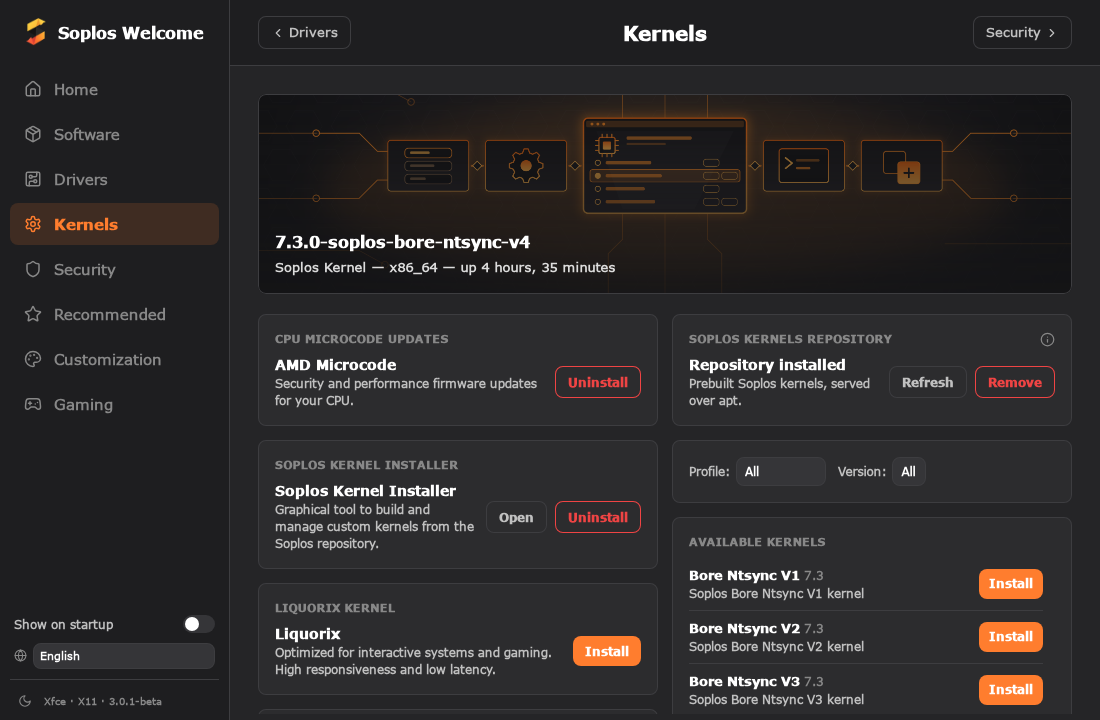
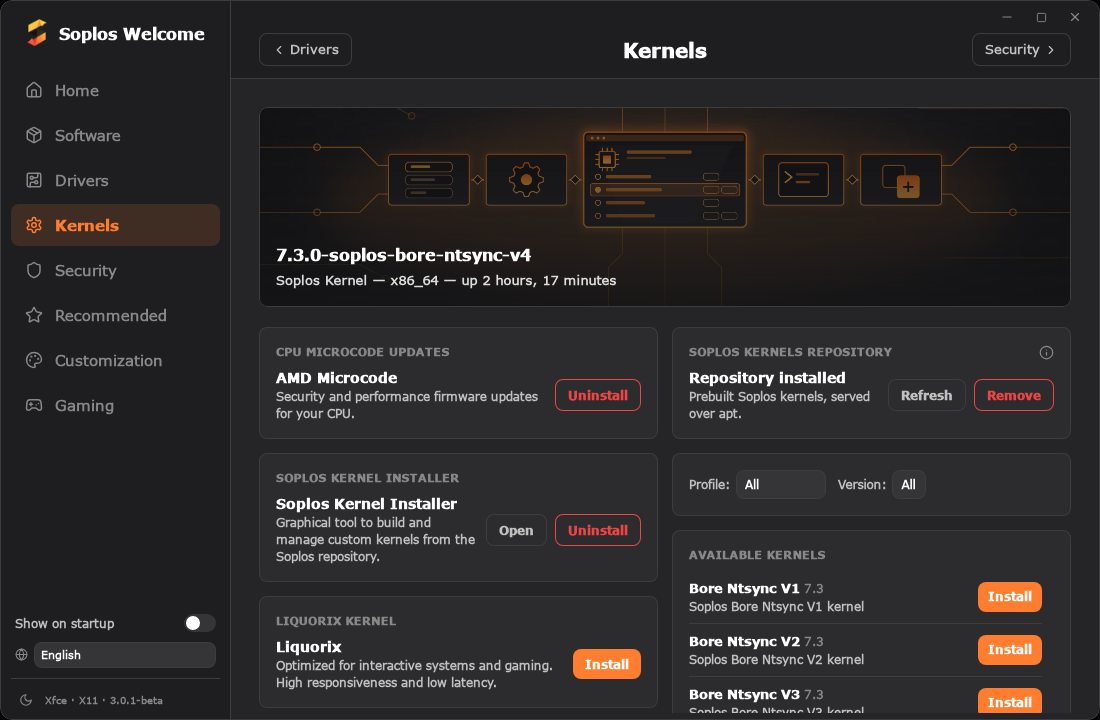
Frameless card window, new screenshots and bump to 3.0.1-9-beta

diff --git a/src/App.svelte b/src/App.svelte
@@ -7,6 +7,7 @@
   import { isRunning, progressFraction } from "./lib/progress";
   import Sidebar from "./components/Sidebar.svelte";
   import Header from "./components/Header.svelte";
+  import WindowControls from "./components/WindowControls.svelte";
   import AboutDialog from "./components/AboutDialog.svelte";
   import Home from "./views/Home.svelte";
   import Software from "./views/Software.svelte";
@@ -55,13 +56,34 @@
   let appVersion = "";
   let envInfo: { desktopEnvironment: string; displayProtocol: string } | null = null;
 
-  onMount(async () => {
-    try {
-      appVersion = await getVersion();
-    } catch { appVersion = ""; }
-    try {
-      envInfo = await api.invoke("get_environment_info");
-    } catch { envInfo = null; }
+  // With `decorations` off in tauri.conf.json (and `transparent` on) the system
+  // draws no frame: the window is one card with rounded corners and the buttons
+  // of the window are in the sidebar. With `decorations` on, nothing of this
+  // shows, so that setting is the only switch between the two.
+  let frameless = false;
+  let maximized = false;
+
+  onMount(() => {
+    let unlisten: (() => void) | undefined;
+    (async () => {
+      try {
+        appVersion = await getVersion();
+      } catch { appVersion = ""; }
+      try {
+        envInfo = await api.invoke("get_environment_info");
+      } catch { envInfo = null; }
+      try {
+        const win = getCurrentWindow();
+        frameless = !(await win.isDecorated());
+        if (frameless) {
+          maximized = await win.isMaximized();
+          unlisten = await win.onResized(async () => {
+            maximized = await win.isMaximized();
+          });
+        }
+      } catch { frameless = false; }
+    })();
+    return () => unlisten?.();
   });
 
   function select(id: string) {
@@ -104,12 +126,16 @@
 
 <svelte:window on:keydown={handleKeydown} />
 
-<div class="flex h-screen overflow-hidden">
+<div class="relative flex h-screen overflow-hidden bg-dark {frameless && !maximized ? 'window-card' : ''}">
   <Sidebar {tabs} {active} onSelect={select} {appVersion} {envInfo} />
+
+  {#if frameless}
+    <div class="absolute right-2 top-[5px] z-40"><WindowControls {maximized} /></div>
+  {/if}
 
   <div class="flex-1 flex flex-col overflow-hidden min-w-0">
     {#if active !== "home"}
-      <Header title={activeTab.title}>
+      <Header title={activeTab.title} {frameless}>
         <svelte:fragment slot="back">
           {#if prevTab}
             <button
@@ -142,7 +168,12 @@
         </svelte:fragment>
       </Header>
     {/if}
-    <div id="main-scroll" class="content-scroll flex-1 overflow-y-auto p-7">
+    <!-- Home has no header: the strip over it (its old top padding) holds the
+         window buttons and moves the window. -->
+    {#if frameless && active === "home"}
+      <div class="h-7 shrink-0" data-tauri-drag-region></div>
+    {/if}
+    <div id="main-scroll" class="content-scroll flex-1 overflow-y-auto p-7 {frameless && active === 'home' ? 'pt-0' : ''}">
       <svelte:component this={ActiveView} />
     </div>
 
@@ -154,11 +185,11 @@
       {/if}
     </div>
   </div>
-</div>
 
-{#if aboutOpen}
-  <AboutDialog onClose={() => (aboutOpen = false)} />
-{/if}
+  {#if aboutOpen}
+    <AboutDialog onClose={() => (aboutOpen = false)} />
+  {/if}
+</div>
 
 <style>
   .progress-fill {

diff --git a/src/components/WindowControls.svelte b/src/components/WindowControls.svelte
@@ -1,0 +1,41 @@
+<script lang="ts">
+  import { getCurrentWindow } from "@tauri-apps/api/window";
+  import { _ } from "svelte-i18n";
+  import { Minus, Square, Copy, X } from "lucide-svelte";
+
+  // The buttons of the window when the system draws no frame: minimize, maximize
+  // or restore, and close, at the top right of the card. They are plain icons;
+  // the accent of the theme shows under the pointer, and red only on close.
+  export let maximized = false;
+
+  const win = getCurrentWindow();
+
+  const button = "grid h-[22px] w-8 place-items-center rounded text-text-muted transition-colors";
+</script>
+
+<div class="flex items-center gap-0.5">
+  <button
+    class="{button} hover:bg-primary/15 hover:text-primary"
+    title={$_("app.window.minimize")}
+    aria-label={$_("app.window.minimize")}
+    on:click={() => win.minimize()}
+  >
+    <Minus size={14} />
+  </button>
+  <button
+    class="{button} hover:bg-primary/15 hover:text-primary"
+    title={maximized ? $_("app.window.restore") : $_("app.window.maximize")}
+    aria-label={maximized ? $_("app.window.restore") : $_("app.window.maximize")}
+    on:click={() => win.toggleMaximize()}
+  >
+    {#if maximized}<Copy size={11} />{:else}<Square size={11} />{/if}
+  </button>
+  <button
+    class="{button} hover:bg-danger hover:text-white"
+    title={$_("app.window.close")}
+    aria-label={$_("app.window.close")}
+    on:click={() => win.close()}
+  >
+    <X size={14} />
+  </button>
+</div>

diff --git a/src/components/Sidebar.svelte b/src/components/Sidebar.svelte
@@ -60,8 +60,9 @@
   }
 </script>
 
-<aside class="w-[230px] shrink-0 flex flex-col pt-[18px] px-[10px] pb-2 bg-panel border-r border-border">
-  <div class="flex items-center gap-2 px-3 pb-[22px] font-bold text-[0.98rem] text-text-bright">
+<aside class="w-[230px] shrink-0 flex flex-col pt-[18px] px-[10px] pb-2 bg-panel border-r border-border" data-tauri-drag-region>
+  <!-- With no frame of the system, the top of the sidebar moves the window. -->
+  <div class="flex items-center gap-2 px-3 pb-[22px] font-bold text-[0.98rem] text-text-bright" data-tauri-drag-region="deep">
     <img src="/assets/icons/soplos-logo.png" alt="Soplos" class="w-[28px] h-[28px] object-contain shrink-0" />
     <span class="whitespace-nowrap">Soplos Welcome</span>
   </div>

diff --git a/src/styles/global.css b/src/styles/global.css
@@ -38,12 +38,24 @@
 
   body {
     font-family: "Segoe UI", Tahoma, Geneva, Verdana, sans-serif;
-    background: theme("colors.dark");
+    /* The background is the one of the window card (App.svelte): the body stays
+       transparent so the corners of a window with no frame can be rounded. */
+    background: transparent;
     color: theme("colors.text.DEFAULT");
     height: 100vh;
     margin: 0;
     overflow: hidden;
   }
+}
+
+/*
+ * The window when the system draws no frame: one card with rounded corners.
+ * clip-path also cuts the dialogs (position: fixed), which overflow does not.
+ */
+.window-card {
+  border-radius: 12px;
+  border: 1px solid rgb(var(--color-border));
+  clip-path: inset(0 round 12px);
 }
 
 .content-scroll {

diff --git a/src/components/Header.svelte b/src/components/Header.svelte
@@ -1,8 +1,14 @@
 <script lang="ts">
   export let title: string;
+  // With no frame of the system the window buttons sit at the top right, so
+  // the header leaves room above its buttons for them.
+  export let frameless = false;
 </script>
 
-<header class="grid grid-cols-[1fr_auto_1fr] items-center px-7 py-4 border-b border-border bg-panel shrink-0">
+<header
+  class="grid grid-cols-[1fr_auto_1fr] items-center px-7 border-b border-border bg-panel shrink-0 {frameless ? 'pt-8 pb-3' : 'py-4'}"
+  data-tauri-drag-region="deep"
+>
   <div class="flex gap-2.5 justify-self-start">
     <slot name="back" />
   </div>

diff --git a/CHANGELOG.md b/CHANGELOG.md
@@ -2,6 +2,13 @@
 
 All notable changes to Soplos Welcome are documented in this file.
 
+## [3.0.1-9-beta] - 2026-10-29
+
+### Changed
+
+- The window no longer has the frame of the system: it is a card with rounded corners and its own minimize, maximize and close buttons at the top right. It can be moved from the top strip, the banner and the side bar, and double click on the strip maximizes it. The rounded corners need a compositing manager running, as the one of Xfce, Plasma or GNOME.
+- New screenshots of every page, taken with the new window and the interface in English.
+
 ## [3.0.1-8-beta] - 2026-10-29
 
 ### Changed

diff --git a/README.md b/README.md
@@ -1,6 +1,6 @@
 # Soplos Welcome 3.0
 
-![Version](https://img.shields.io/badge/version-3.0.1--8--beta-blue)
+![Version](https://img.shields.io/badge/version-3.0.1--9--beta-blue)
 ![License](https://img.shields.io/badge/license-GPL--3.0--or--later-green)
 ![Platform](https://img.shields.io/badge/platform-Linux-lightgrey)
 ![Tauri](https://img.shields.io/badge/Tauri-2-orange)
